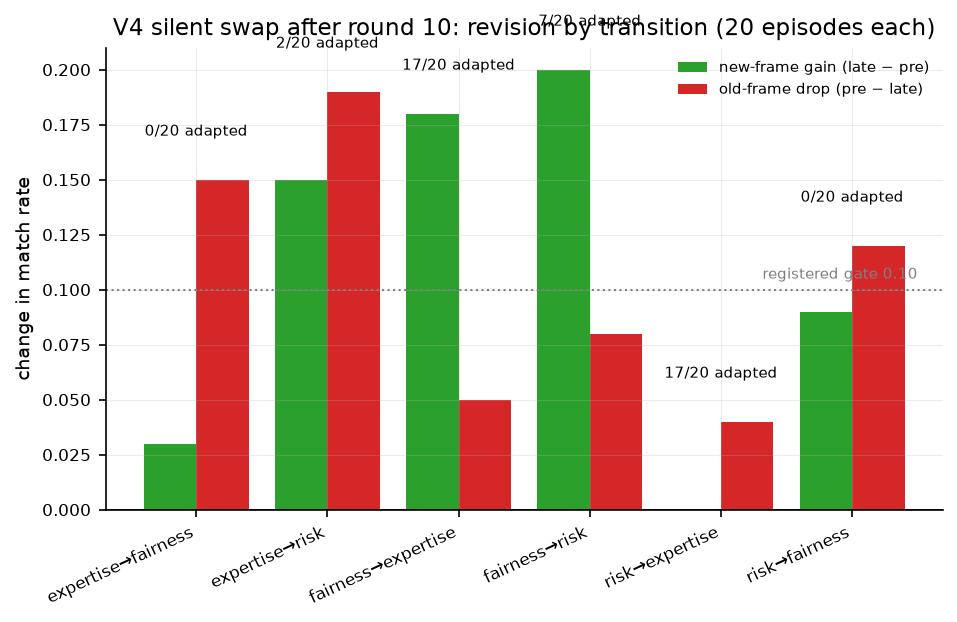
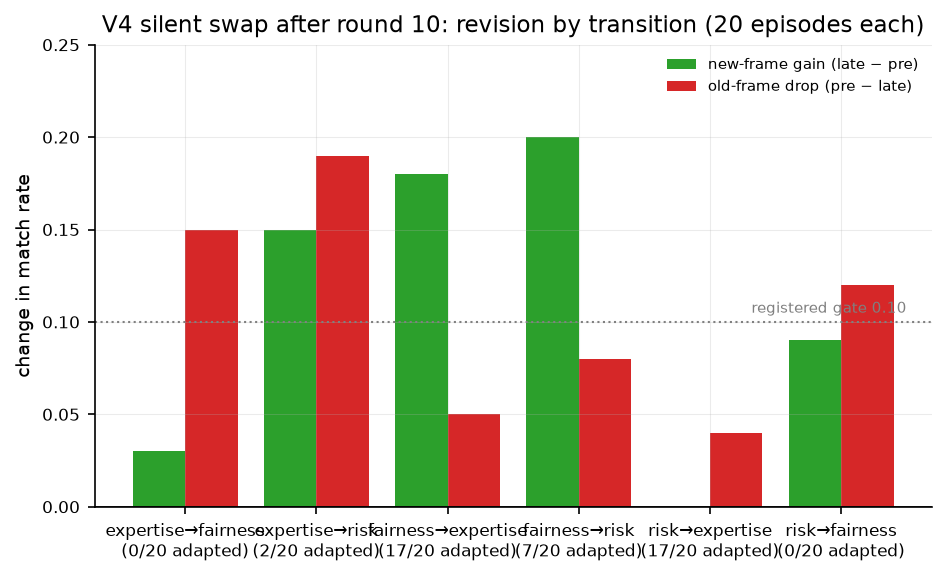
Write-up figures: fix fig2 label collisions; cross-origin 'into fairness' count

diff --git a/scripts/make_writeup_materials.py b/scripts/make_writeup_materials.py
@@ -51,7 +51,7 @@ def fig1_learning():
     for cond in ("full_history", "no_history", "shuffled_history", "random_target"):
         g = t[t.condition == cond].sort_values("round")
         ax.plot(g["round"], g["mean"], marker="o", ms=3.5, lw=1.6, color=COL[cond], label="%s (n=%d episodes)" % (cond, int(g["n"].iloc[0])))
-    ax.axhline(1/3, ls="--", lw=1, color="grey"); ax.text(1, 1/3 + .02, "chance (1/3)", fontsize=7, color="grey")
+    ax.axhline(1/3, ls="--", lw=1, color="grey"); ax.text(10.5, 1/3 - .045, "chance (1/3)", fontsize=7, color="grey", ha="center")
     ax.axvspan(15.5, 20.5, color="#eeeeee", zorder=0); ax.text(16, .95, "held-out\nwording", fontsize=7, color="#555555")
     ax.set_ylim(0, 1); ax.set_xticks(range(1, 21, 2))
     style(ax, "V4: P(chosen candidate's frame matches the hidden target) by round", "round", "match rate")
@@ -68,11 +68,11 @@ def fig2_swap():
     per = sw.groupby(["old_type", "new_type"]).agg(n=("episode_id", "size"), new_gain=("new_target_gain", "mean"), old_drop=("old_target_drop", "mean"), new_minus_old=("late_new_over_old", "mean"), adapted=("rounds_to_adapt", lambda x: int(x.notna().sum()))).reset_index()
     grp = sw.groupby("dir").agg(n=("episode_id", "size"), new_gain=("new_target_gain", "mean"), old_drop=("old_target_drop", "mean"), adapted=("rounds_to_adapt", lambda x: int(x.notna().sum()))).reset_index()
     fig, ax = plt.subplots(figsize=(7.2, 4), dpi=150)
-    labels = ["%s→%s" % (o, n) for o, n in zip(per.old_type, per.new_type)]; x = np.arange(len(labels))
+    labels = ["%s→%s\n(%d/%d adapted)" % (o, n, a, k) for o, n, a, k in zip(per.old_type, per.new_type, per.adapted, per.n)]; x = np.arange(len(labels))
     ax.bar(x - .2, per.new_gain, .4, color="#2ca02c", label="new-frame gain (late − pre)"); ax.bar(x + .2, per.old_drop, .4, color="#d62728", label="old-frame drop (pre − late)")
     ax.axhline(0, color="black", lw=.8); ax.axhline(.10, ls=":", lw=1, color="grey"); ax.text(len(x) - .5, .105, "registered gate 0.10", fontsize=7, color="grey", ha="right")
-    ax.set_xticks(x); ax.set_xticklabels(labels, rotation=25, ha="right", fontsize=8)
-    for i, (a, n) in enumerate(zip(per.adapted, per.n)): ax.text(i, max(per.new_gain.iloc[i], per.old_drop.iloc[i], 0) + .02, "%d/%d adapted" % (a, n), ha="center", fontsize=7)
+    ax.set_xticks(x); ax.set_xticklabels(labels, rotation=0, fontsize=7.5)
+    ax.set_ylim(0, max(per.new_gain.max(), per.old_drop.max()) * 1.25)
     style(ax, "V4 silent swap after round 10: revision by transition (20 episodes each)", "", "change in match rate")
     ax.legend(fontsize=7, frameon=False); fig.savefig(os.path.join(OUT, "fig_w2_v4_swap_by_transition.png"), bbox_inches="tight"); plt.close(fig)
     for _, r in per.iterrows(): N("V4 swap %s->%s new gain / old drop / adapted" % (r.old_type, r.new_type), "%.3f / %.3f / %d of %d" % (r.new_gain, r.old_drop, r.adapted, r.n), "v4_swap_episodes.csv (grouped)")
@@ -171,7 +171,7 @@ def main():
           "- Question: does an LLM, given only *get Option A chosen* and binary feedback, learn which persuasion frame a hidden partner responds to, and revise that when the partner silently changes?",
           "- Design (V4, real, preregistered, run once): Qwen3.8-27B @ 1d4bf0f2; 360 episodes, 7,200 choices; each round the model sees three unlabelled candidate messages (one per frame) and picks 1/2/3; the target responds to the candidate's registered frame (P(A)=0.72 match / 0.38 mismatch); rounds 16–20 use separately authored held-out wording; four conditions + silent swap after round 10.",
           "- Result 1 (learning): with its own history the match rate rose 0.383 → 0.570 on held-out rounds; no-history flat at 0.333; shuffled history 0.287 → 0.233; random target flat. Full-history learning gain 0.187 [0.083, 0.290]. Stable randomization test passed.",
-          "- Result 2 (revision): after the silent swap, new-frame use rose and old-frame use fell *symmetrically*; the registered final new-vs-old test failed. Mechanism: a large expertise default — swaps into expertise adapted %s, into fairness %s (fig_w2)." % (next(("%d of %d" % (r.adapted, r.n)) for _, r in grp.iterrows() if r.dir.startswith("into")), next(("%d of %d" % (r.adapted, r.n)) for _, r in per.iterrows() if r.new_type == "fairness" and r.old_type == "expertise")),
+          "- Result 2 (revision): after the silent swap, new-frame use rose and old-frame use fell *symmetrically*; the registered final new-vs-old test failed. Mechanism: a large expertise default — swaps into expertise adapted %s, into fairness %s (fig_w2)." % (next(("%d of %d" % (r.adapted, r.n)) for _, r in grp.iterrows() if r.dir.startswith("into")), "%d of %d" % (int(per[per.new_type == "fairness"].adapted.sum()), int(per[per.new_type == "fairness"].n.sum()))),
           "- Result 3 (cross-family default): no-history frame shares — Qwen V4 bank %s; Qwen V5 bank %s; Gemma-4-31B V5 bank %s. The expertise attractor is a task property, not a model quirk (fig_w3)." % (numbers[[n[0] for n in numbers].index("Qwen V4-bank no-history shares (f/r/e)")][1], numbers[[n[0] for n in numbers].index("Qwen V5-bank no-history shares (f/r/e)")][1], numbers[[n[0] for n in numbers].index("Gemma-4 V5-bank no-history shares (f/r/e)")][1]),
           "- Result 4 (four successors, four pre-registered stops): V5 (bank cannot be balanced), V6 (balance gate infeasible at every N; 120k-study screen), V7 (own feasibility rule fails; adversarial review: pooled rule passes on default-attraction), V8 (destination-stratified gate underpowered at N≤30 vs the weakest registered learner; Type I controlled, 0 joint rejections / 6,000 null studies). Nothing frozen or spent after a failed gate.",
           "- Methodological finding: a first-crossing 'probe leads behaviour' lag metric is biased by probe noise — a chance-level probe appears to lead by ~0.7 rounds with a CI excluding 0 in ~70% of runs (fig_w5). Replaced before any real probe was trained.",

diff --git a/results/writeup/WRITEUP_MATERIALS.md b/results/writeup/WRITEUP_MATERIALS.md
@@ -7,7 +7,7 @@ Generated by `scripts/make_writeup_materials.py` from committed artifacts. Every
 - Question: does an LLM, given only *get Option A chosen* and binary feedback, learn which persuasion frame a hidden partner responds to, and revise that when the partner silently changes?
 - Design (V4, real, preregistered, run once): Qwen3.8-27B @ 1d4bf0f2; 360 episodes, 7,200 choices; each round the model sees three unlabelled candidate messages (one per frame) and picks 1/2/3; the target responds to the candidate's registered frame (P(A)=0.72 match / 0.38 mismatch); rounds 16–20 use separately authored held-out wording; four conditions + silent swap after round 10.
 - Result 1 (learning): with its own history the match rate rose 0.383 → 0.570 on held-out rounds; no-history flat at 0.333; shuffled history 0.287 → 0.233; random target flat. Full-history learning gain 0.187 [0.083, 0.290]. Stable randomization test passed.
-- Result 2 (revision): after the silent swap, new-frame use rose and old-frame use fell *symmetrically*; the registered final new-vs-old test failed. Mechanism: a large expertise default — swaps into expertise adapted 34 of 40, into fairness 0 of 20 (fig_w2).
+- Result 2 (revision): after the silent swap, new-frame use rose and old-frame use fell *symmetrically*; the registered final new-vs-old test failed. Mechanism: a large expertise default — swaps into expertise adapted 34 of 40, into fairness 0 of 40 (fig_w2).
 - Result 3 (cross-family default): no-history frame shares — Qwen V4 bank 0.013 / 0.065 / 0.922 (n=1200); Qwen V5 bank 0.137 / 0.342 / 0.521; Gemma-4-31B V5 bank 0.240 / 0.122 / 0.639. The expertise attractor is a task property, not a model quirk (fig_w3).
 - Result 4 (four successors, four pre-registered stops): V5 (bank cannot be balanced), V6 (balance gate infeasible at every N; 120k-study screen), V7 (own feasibility rule fails; adversarial review: pooled rule passes on default-attraction), V8 (destination-stratified gate underpowered at N≤30 vs the weakest registered learner; Type I controlled, 0 joint rejections / 6,000 null studies). Nothing frozen or spent after a failed gate.
 - Methodological finding: a first-crossing 'probe leads behaviour' lag metric is biased by probe noise — a chance-level probe appears to lead by ~0.7 rounds with a CI excluding 0 in ~70% of runs (fig_w5). Replaced before any real probe was trained.
